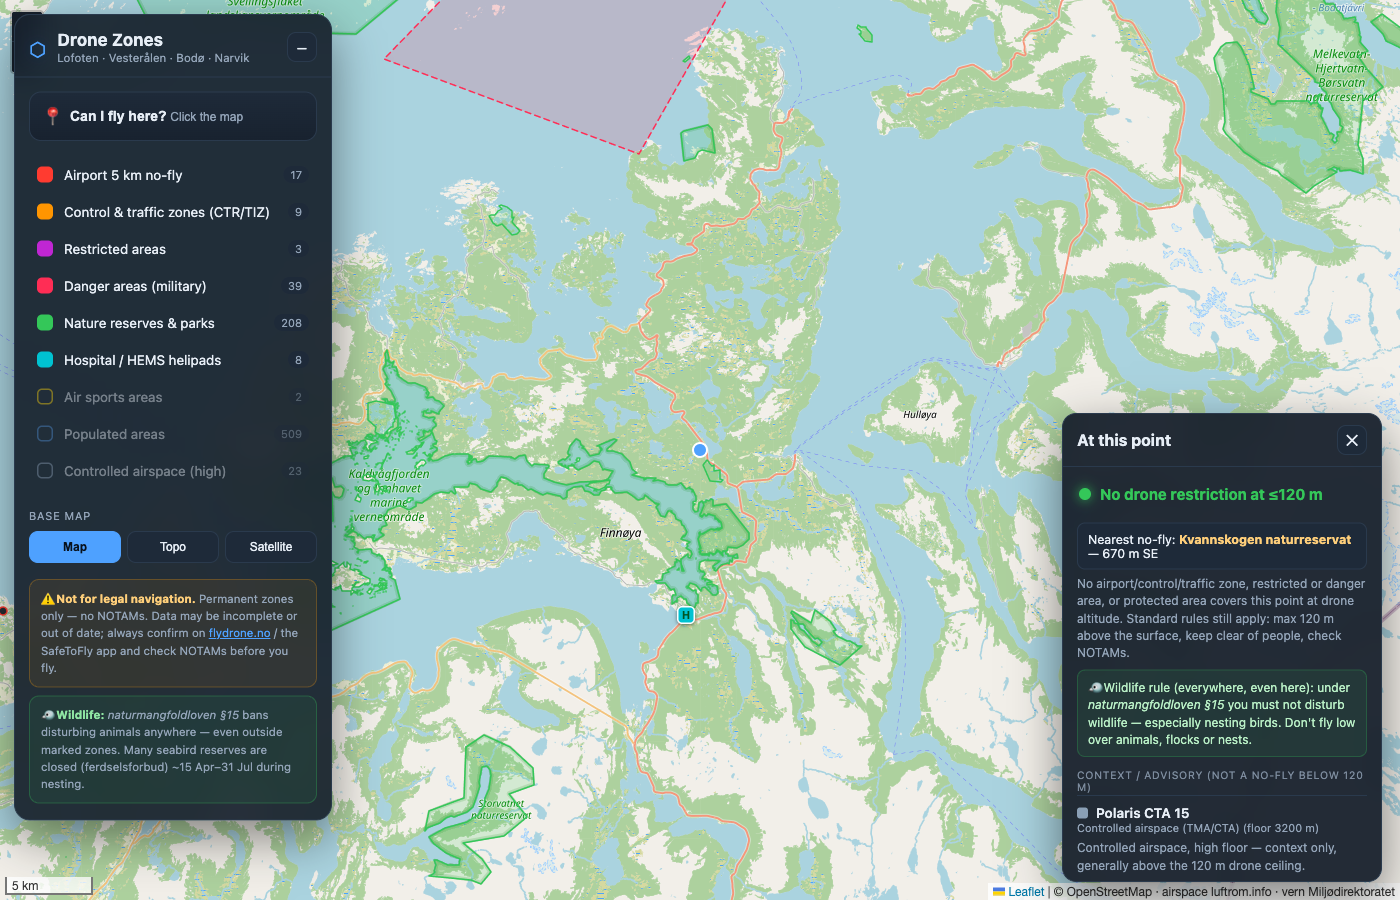
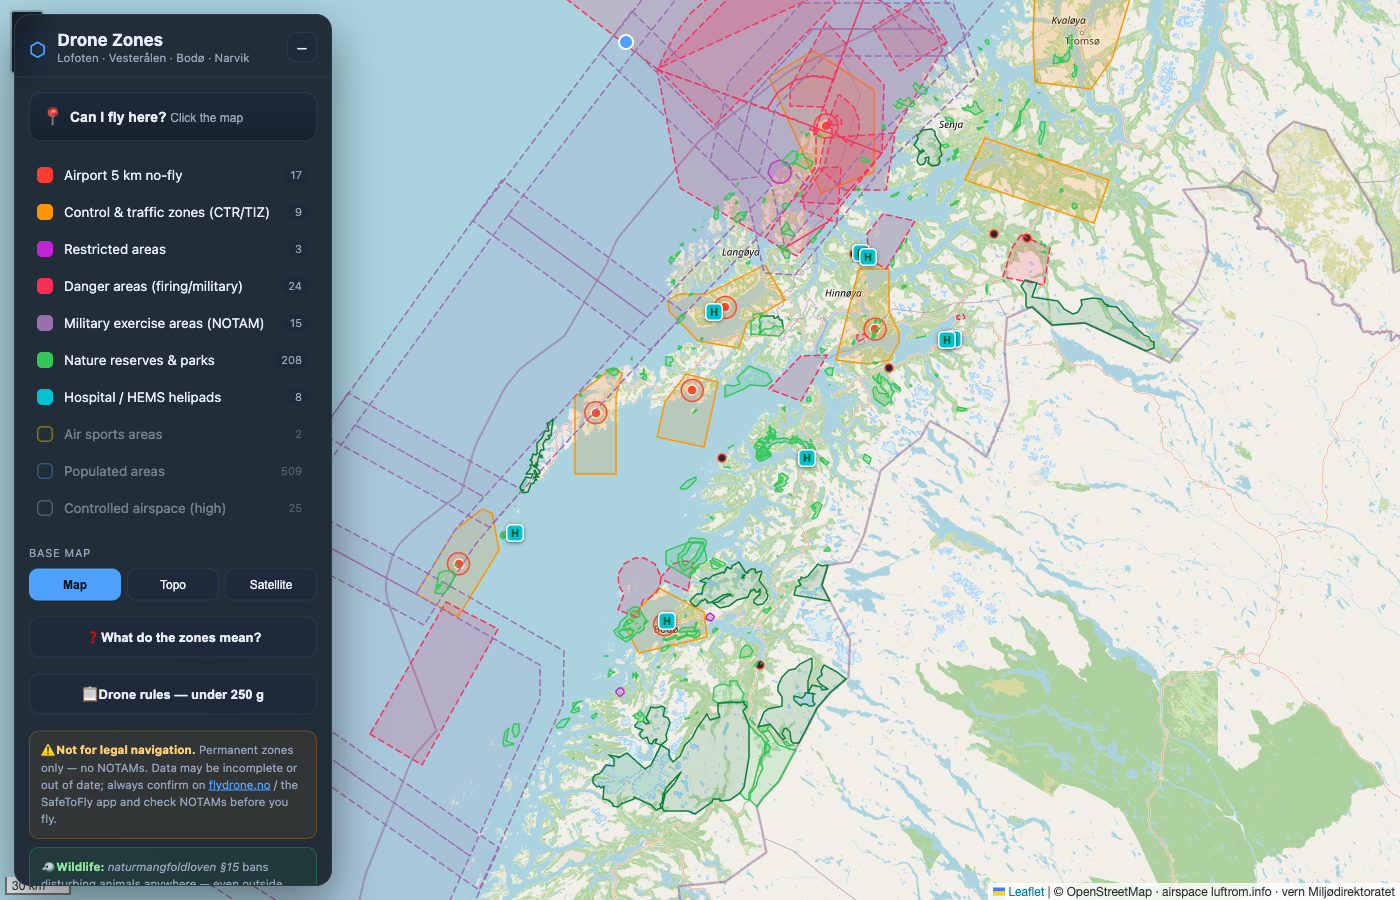
Split military airspace: ENR 5.2 exercise areas are conditional, not permanent
The large 200-280 km blocks over the sea are AIP ENR 5.2 military EXERCISE areas,
active only when activated by NOTAM — not a permanent no-fly. Treating them as
solid "no-fly" blanketed the sea and over-warned. They're now a separate
non-blocking "Military exercise areas (NOTAM)" layer (violet, dashed) with a
"Check NOTAM" tag, distinct from the blocking ENR 5.1 danger areas (firing
ranges). Rule text for both clarifies they're active only at set times.

diff --git a/app.js b/app.js
@@ -7,6 +7,7 @@ const COLORS = {
   ctr: "#ff9500",
   restricted: "#c026d3",
   danger: "#ff2d55",
+  exercise: "#9a6fb0",
   airsport: "#ffd60a",
   helipad: "#00c2d1",
   controlled: "#8aa0b6",
@@ -22,7 +23,8 @@ const LAYER_DEFS = [
   { id: "airport", name: "Airport 5 km no-fly", color: COLORS.airport, on: true, file: "airports", blocking: true },
   { id: "ctr", name: "Control & traffic zones (CTR/TIZ)", color: COLORS.ctr, on: true, file: "airspace", match: p => p.category === "ctr" || p.category === "tiz", blocking: true },
   { id: "restricted", name: "Restricted areas", color: COLORS.restricted, on: true, file: "airspace", match: p => p.category === "restricted", blocking: true },
-  { id: "danger", name: "Danger areas (military)", color: COLORS.danger, on: true, file: "airspace", match: p => p.category === "danger", dashed: true, blocking: true },
+  { id: "danger", name: "Danger areas (firing/military)", color: COLORS.danger, on: true, file: "airspace", match: p => p.category === "danger", dashed: true, blocking: true },
+  { id: "exercise", name: "Military exercise areas (NOTAM)", color: COLORS.exercise, on: true, file: "airspace", match: p => p.category === "exercise", dashed: true, blocking: false },
   { id: "nature", name: "Nature reserves & parks", color: COLORS.reserve, on: true, file: "nature", blocking: true },
   { id: "helipad", name: "Hospital / HEMS helipads", color: COLORS.helipad, on: true, file: "helipads", blocking: false },
   { id: "airsport", name: "Air sports areas", color: COLORS.airsport, on: false, file: "airspace", match: p => p.category === "airsport", blocking: false },
@@ -189,7 +191,7 @@ function styleFor(def, p) {
   return {
     color, fillColor,
     weight: 1.5,
-    fillOpacity: def.id === "populated" ? 0.18 : 0.16,
+    fillOpacity: def.id === "exercise" ? 0.06 : def.id === "populated" ? 0.18 : 0.16,
     dashArray: def.dashed ? "6 4" : null,
   };
 }

diff --git a/index.html b/index.html
@@ -134,13 +134,15 @@
           <span><span class="badge badge--ok">OK ≤120 m</span> Just fly — nothing to do.</span>
           <span><span class="badge badge--caution">Fly carefully</span> Allowed without permission — just be careful.</span>
           <span><span class="badge badge--perm">Need permission</span> You may fly, but only after someone says yes.</span>
+          <span><span class="badge badge--notam">Check NOTAM</span> Only blocked when activated — check NOTAMs that day.</span>
           <span><span class="badge badge--nofly">No-fly</span> Don't — easiest is to pick another spot.</span>
         </div>
         <ul class="gloss">
           <li><span class="chip chip--ring" style="background:var(--c-airport)"></span><span><span class="gloss-title"><b>Airport — 5 km zone</b><span class="badge badge--perm">Need permission</span></span>Planes take off and land here — a drone could hit one.<span class="todo"><b>To fly:</b> phone the airport's control tower and get their OK. No OK → don't fly.</span></span></li>
           <li><span class="chip" style="background:var(--c-ctr)"></span><span><span class="gloss-title"><b>Control &amp; traffic zone (CTR / TIZ)</b><span class="badge badge--perm">Need permission</span></span>Air traffic control manages all flying right around the airport, from the ground up.<span class="todo"><b>To fly:</b> contact the airport (tower or info service) and get clearance before take-off.</span></span></li>
           <li><span class="chip" style="background:var(--c-restricted)"></span><span><span class="gloss-title"><b>Restricted area</b><span class="badge badge--nofly">No-fly</span></span>The authorities limit or ban flying here (e.g. sensitive sites).<span class="todo"><b>To fly:</b> needs special permission from the body that set it — usually not worth it. Pick another spot.</span></span></li>
-          <li><span class="chip" style="background:var(--c-danger)"></span><span><span class="gloss-title"><b>Danger area (military)</b><span class="badge badge--nofly">No-fly</span></span>The armed forces train here — live shooting, fast jets, exercises. It can be dangerous.<span class="todo"><b>To fly:</b> too complicated — just fly somewhere else.</span></span></li>
+          <li><span class="chip" style="background:var(--c-danger)"></span><span><span class="gloss-title"><b>Danger area (firing / military)</b><span class="badge badge--nofly">No-fly</span></span>Live shooting, rocket launches and similar — dangerous, but active only at set times.<span class="todo"><b>To fly:</b> check NOTAMs; if it's active that day, fly somewhere else.</span></span></li>
+          <li><span class="chip" style="background:var(--c-exercise)"></span><span><span class="gloss-title"><b>Military exercise area</b><span class="badge badge--notam">Check NOTAM</span></span>The big areas over the sea. Used during military exercises only — most days they're empty and fine.<span class="todo"><b>To fly:</b> check NOTAMs for the day. No exercise on → you're OK. Exercise on → stay out.</span></span></li>
           <li><span class="chip" style="background:var(--c-airsport)"></span><span><span class="gloss-title"><b>Air sports area</b><span class="badge badge--caution">Fly carefully</span></span>Paragliders, skydivers or small planes use this air — you could crash into them.<span class="todo"><b>To fly:</b> go ahead, no permission needed — just watch for them and give way.</span></span></li>
           <li><span class="chip" style="background:var(--c-reserve)"></span><span><span class="gloss-title"><b>Nature reserve / national park</b><span class="badge badge--nofly">No-fly</span></span>Protected nature. Drones scare animals — especially nesting birds — so flying is usually banned.<span class="todo"><b>To fly:</b> you'd need an exemption from the county governor (Statsforvalteren) — rarely given. Pick another spot.</span></span></li>
           <li><span class="chip chip--ring" style="background:var(--c-helipad)"></span><span><span class="gloss-title"><b>Hospital / HEMS helipad</b><span class="badge badge--caution">Fly carefully</span></span>Air-ambulance helicopters land here — low, fast and with no warning.<span class="todo"><b>To fly:</b> allowed, no permission needed — stay clear and land at once if a helicopter comes.</span></span></li>

diff --git a/style.css b/style.css
@@ -17,6 +17,7 @@
   --c-populated: #4d8fd6;
   --c-airsport: #ffd60a;
   --c-helipad: #00c2d1;
+  --c-exercise: #9a6fb0;
 
   font-family: -apple-system, BlinkMacSystemFont, "Segoe UI", Roboto, Helvetica, Arial, sans-serif;
 }
@@ -205,6 +206,7 @@ ul.gloss .gloss-title b { display: inline; margin: 0; }
 .badge--perm { background: rgba(255,149,0,.16); color: #ffc06a; border: 1px solid rgba(255,149,0,.45); }
 .badge--caution { background: rgba(255,214,10,.14); color: #ffe08a; border: 1px solid rgba(255,214,10,.45); }
 .badge--ok { background: rgba(52,199,89,.14); color: #8fe6a3; border: 1px solid rgba(52,199,89,.45); }
+.badge--notam { background: rgba(154,111,176,.18); color: #c9a8e0; border: 1px solid rgba(154,111,176,.5); }
 
 /* Tag key + "to fly" action lines in the glossary */
 .taglegend { display: flex; flex-direction: column; gap: 7px; margin: 2px 0 16px; font-size: 12px; color: var(--muted); }

diff --git a/README.md b/README.md
@@ -18,7 +18,8 @@ military danger areas, protected nature, and built-up areas.
 | **Airport 5 km no-fly** | 5 km ring around the 7 airports with scheduled air traffic service (Bodø, Evenes, Andøya, Leknes, Svolvær, Stokmarknes, Røst). Uncontrolled airstrips & heliports are advisory markers only. | [OurAirports](https://ourairports.com/) | Crowd-sourced, locations verified |
 | **Control & traffic zones (CTR/TIZ)** | Control zones (Bodø, Evenes, Andøya, Bardufoss, Tromsø) and AFIS traffic info zones (Leknes, Helle/Svolvær, Skagen/Stokmarknes, Røst). All ground level. | [luftrom.info](https://luftrom.info) (from Avinor AIP) | AIP-derived; **cross-checked vs official AIP** |
 | **Restricted areas** | AIP ENR 5.1 restricted airspace (R423/425/426). | luftrom.info | AIP-derived & verified |
-| **Danger areas (military)** | Military danger / exercise areas, `END…` (AIP ENR 5.1 & 5.2, incl. Andøya range). | luftrom.info | AIP-derived & verified |
+| **Danger areas (firing/military)** | AIP ENR 5.1 danger areas (firing ranges, Andøya rocket range). Blocking, but active only at set times — check NOTAM. | luftrom.info | AIP-derived & verified |
+| **Military exercise areas (NOTAM)** | AIP ENR 5.2 exercise/training areas — the large blocks over the sea. **Active only when activated by NOTAM**, so treated as conditional (non-blocking) context, not a permanent no-fly. | luftrom.info | AIP-derived & verified |
 | **Hospital / HEMS helipads** | Air-ambulance helipads (Bodø, Narvik, Stokmarknes, Harstad, Værøy). | [OpenStreetMap](https://www.openstreetmap.org/) | Crowd-sourced |
 | **Air sports areas** | Paraglider/parachute/GA activity areas (AIP ENR 5.5). Off by default — advisory hazard. | luftrom.info | AIP-derived |
 | **Nature reserves & parks** | National parks, nature reserves, landscape & marine protected areas; seabird reserves flagged for the seasonal nesting ban. | [Miljødirektoratet](https://kart.miljodirektoratet.no/) | **Official government data** |